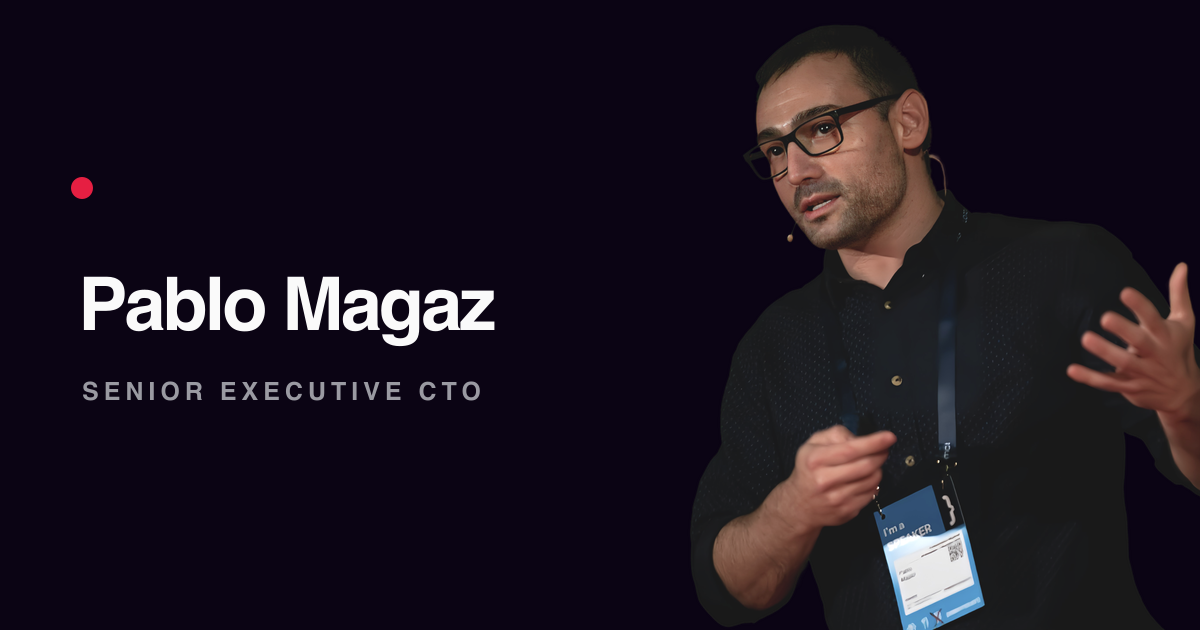
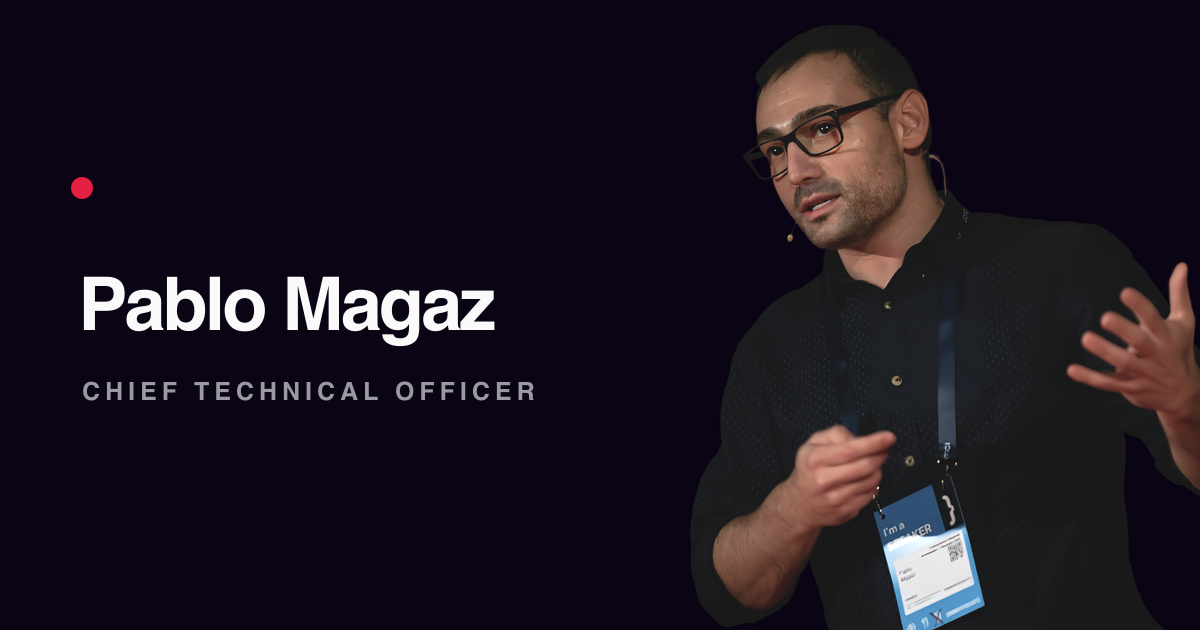
feat(about): add about page
- Intro band with narrative bio and surface-tinted photo panel
- Career as a hairline timeline with Now / Previously / Earlier
- Closing highlights band
- Header brand reuses the Eyebrow component so it matches the hero byline
- Role wording updated to Chief Technical Officer

Changed region(s): [[0.0617, 0.6032, 0.4625, 0.6333]]

diff --git a/src/data/about.ts b/src/data/about.ts
@@ -31,7 +31,7 @@ export const about = {
       { text: ' software.' },
     ],
   ] as const satisfies HeadlineLines,
-  lede: 'I am a Senior Executive CTO. I lead engineering organisations through the moments where the technology decision and the business decision are the same decision.',
+  lede: 'I am a Chief Technical Officer. I lead engineering organisations through the moments where the technology decision and the business decision are the same decision.',
   paragraphs: [
     'My work sits in three places: the platform a company builds on, the AI it puts in front of customers, and the organisation that has to maintain both once the launch is over. I have done this as a founder, as a consultancy CTO and inside companies mid-transformation — which is mostly a lesson in how differently the same problem looks from each chair.',
     'I speak regularly at industry conferences, mentor technical leaders, and write here about the parts of the job nobody puts in the job description.',

diff --git a/src/data/site.ts b/src/data/site.ts
@@ -17,13 +17,13 @@ export interface SocialLink {
 
 export const site = {
   name: 'Pablo Magaz',
-  role: 'Senior Executive CTO',
+  role: 'Chief Technical Officer',
   /** Used in <title> on the home page and as the OG site name. */
-  title: 'Pablo Magaz — Senior Executive CTO',
+  title: 'Pablo Magaz — Chief Technical Officer',
   description:
-    'Pablo Magaz is a Senior Executive CTO working on platform strategy, AI in production and engineering organisation design.',
+    'Pablo Magaz is a Chief Technical Officer working on platform strategy, AI in production and engineering organisation design.',
   email: 'hola@pablomagaz.com',
-  authorBio: 'Senior Executive CTO — platforms, AI, org design',
+  authorBio: 'Chief Technical Officer — platforms, AI, org design',
   nav: [
     { label: 'About', href: '/about' },
     { label: 'Blog', href: '/blog' },

diff --git a/src/components/about/Highlights/Highlights.css b/src/components/about/Highlights/Highlights.css
@@ -1,0 +1,42 @@
+/* Closing band on the about page — three columns on the surface tint. */
+
+.pm-highlights__inner {
+  display: grid;
+  grid-template-columns: 1fr;
+  gap: var(--pm-space-6);
+  padding-block: var(--pm-space-7);
+}
+
+.pm-highlights__item {
+  display: flex;
+  flex-direction: column;
+  gap: 10px;
+}
+
+.pm-highlights__label {
+  color: var(--pm-muted);
+  font-size: 11px;
+  font-weight: var(--pm-fw-regular);
+  letter-spacing: 0.2em;
+  line-height: 1.4;
+  text-transform: uppercase;
+}
+
+.pm-highlights__text {
+  color: var(--pm-ink);
+  font-size: 16px;
+  line-height: 1.6;
+}
+
+@media (min-width: 769px) {
+  .pm-highlights__inner {
+    grid-template-columns: repeat(3, 1fr);
+    gap: var(--pm-space-6);
+    padding-block: var(--pm-space-12);
+  }
+
+  .pm-highlights__label {
+    font-size: 12px;
+    letter-spacing: 0.22em;
+  }
+}

diff --git a/src/components/common/Header/Header.tsx b/src/components/common/Header/Header.tsx
@@ -1,4 +1,5 @@
 import type { ReactNode } from 'react';
+import Eyebrow from '~/components/common/Eyebrow/Eyebrow';
 import { site } from '~/data/site';
 import './Header.css';
 
@@ -19,8 +20,9 @@ export default function Header({ pathname, children }: HeaderProps) {
   return (
     <header className="pm-header">
       <div className="pm-container pm-header__inner">
+        {/* Same component as the hero byline, so the style is identical */}
         <a className="pm-header__brand" href="/">
-          {site.name}
+          <Eyebrow dot text={`${site.name} — ${site.role}`} />
         </a>
 
         <nav className="pm-header__nav" aria-label="Main">

diff --git a/src/components/about/Highlights/Highlights.tsx b/src/components/about/Highlights/Highlights.tsx
@@ -1,0 +1,18 @@
+import { about } from '~/data/about';
+import './Highlights.css';
+
+/** Closing band: What I work on · Speaking · Also. */
+export default function Highlights() {
+  return (
+    <section className="pm-highlights pm-band">
+      <div className="pm-container pm-highlights__inner">
+        {about.highlights.map((highlight) => (
+          <div className="pm-highlights__item" key={highlight.label}>
+            <h2 className="pm-highlights__label">{highlight.label}</h2>
+            <p className="pm-highlights__text">{highlight.text}</p>
+          </div>
+        ))}
+      </div>
+    </section>
+  );
+}

diff --git a/src/components/common/Header/Header.css b/src/components/common/Header/Header.css
@@ -14,11 +14,10 @@
   padding-block: var(--pm-header-pad-y);
 }
 
+/* Brand, top left. Typography comes from the Eyebrow component, exactly as
+   the hero byline: uppercase, 12px, 0.22em tracking. */
 .pm-header__brand {
-  font-size: 15px;
-  font-weight: var(--pm-fw-medium);
-  letter-spacing: -0.01em;
-  color: var(--pm-ink);
+  min-width: 0;
 }
 
 .pm-header__nav {

diff --git a/src/components/common/MobileMenu/MobileMenu.tsx b/src/components/common/MobileMenu/MobileMenu.tsx
@@ -105,7 +105,6 @@ export default function MobileMenu({ pathname }: MobileMenuProps) {
         hidden={!open}
       >
         <div className="pm-mobile-menu__panel-head">
-          <span className="pm-mobile-menu__panel-brand">{site.name}</span>
           <button
             className="pm-mobile-menu__close"
             type="button"

diff --git a/src/components/common/MobileMenu/MobileMenu.css b/src/components/common/MobileMenu/MobileMenu.css
@@ -46,13 +46,7 @@
 .pm-mobile-menu__panel-head {
   display: flex;
   align-items: center;
-  justify-content: space-between;
-}
-
-.pm-mobile-menu__panel-brand {
-  font-size: 15px;
-  font-weight: var(--pm-fw-medium);
-  letter-spacing: -0.01em;
+  justify-content: flex-end;
 }
 
 .pm-mobile-menu__close {
